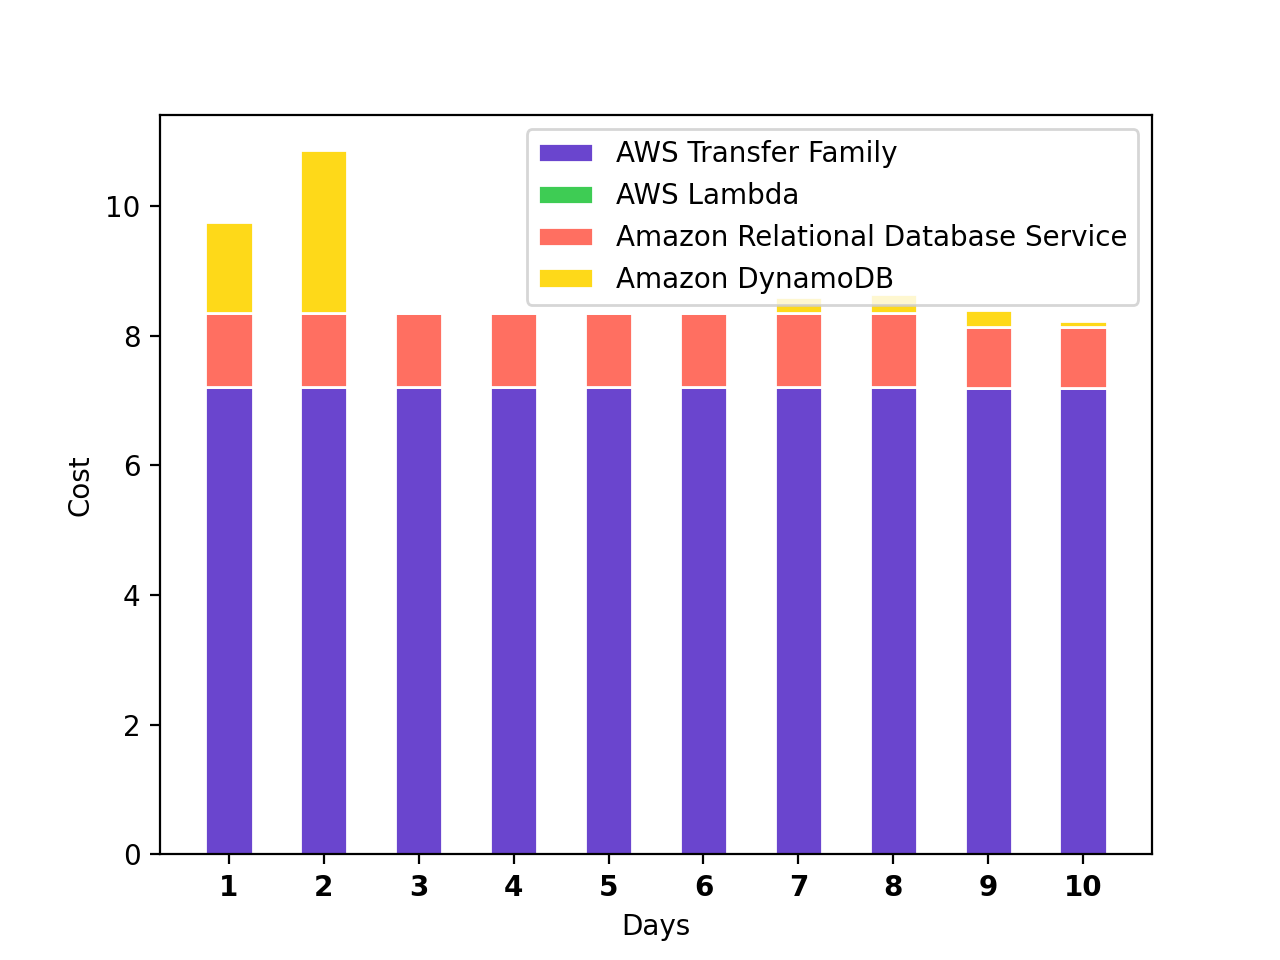
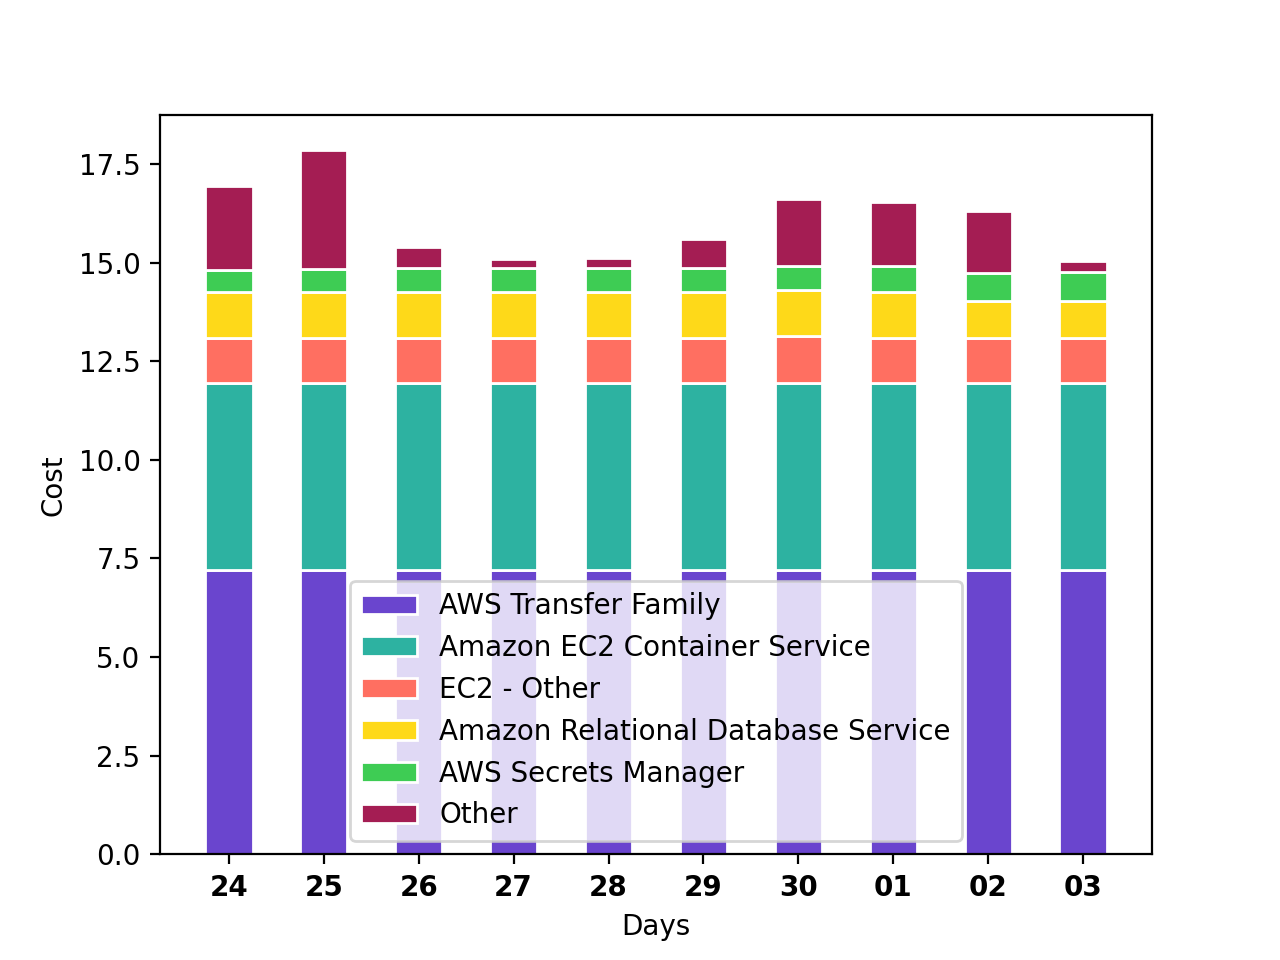
add calculation of dates

diff --git a/src/lambda.py b/src/lambda.py
@@ -3,16 +3,30 @@ from datetime import datetime, timedelta
 import json
 import stacked_bar
 
+TITLE = "Project: XYZ"
 DAYS = 10
+MIN_DAILY_COST = 10
+ONLY_NOTIFY_ON_INCREASE = False
+TARGET_CHANNEL = "#costoptimization"
 
 
 def get_daily_cost():
-    """ Returns the spend for each service
+    """ Returns the spend for each service together with the days
     """
-    client = boto3.client('ce')
     today = datetime.today().strftime('%Y-%m-%d')
     # first_day_of_month = datetime.today().replace(day=1).strftime('%Y-%m-%d')
     start_date = (datetime.now() - timedelta(days=DAYS)).strftime('%Y-%m-%d')
+
+    # Calculate dates
+    dates = []
+    for i in range(0, DAYS):
+        day = (datetime.today() - timedelta(days=i)).strftime("%d")
+        print(day)
+        dates.append(day)
+    dates.reverse()
+
+    # Get daily spend
+    client = boto3.client('ce')
     results = client.get_cost_and_usage(
         TimePeriod={
             'Start': start_date,
@@ -48,11 +62,11 @@ def get_daily_cost():
                 daily_cost[service].append(0)
 
     print(json.dumps(daily_cost, indent=4))
-    return daily_cost
+    return (daily_cost, dates)
 
 
 def lambda_handler(event, context):
-    daily_cost = get_daily_cost()
+    (daily_cost, dates) = get_daily_cost()
 
     # Find the biggest spenders
     total_cost = []
@@ -73,12 +87,9 @@ def lambda_handler(event, context):
     for service in the_rest:
         graph_data["Other"] = [x + y for x, y in zip(graph_data["Other"], daily_cost[service])]
     
-    print(graph_data)
+    print(graph_data, dates)
 
-    for service in graph_data.keys():
-        
-
-    stacked_bar.draw_bars(graph_data)
+    stacked_bar.draw_bars(graph_data, dates, f"{TITLE} (last {DAYS} days)")
 
     #print(json.dumps(results, indent=4))
 

diff --git a/src/stacked_bar.py b/src/stacked_bar.py
@@ -17,13 +17,12 @@ dark_green = "#2db2a1"
 COLORS = [purple, dark_green, pink, yellow, light_green, magenta, cyan]
 
 
-def draw_bars(all_bars):
+def draw_bars(all_bars, dates, title):
     first_key = list(all_bars.keys())[0]
     days = len(all_bars[first_key])
     # The position of the bars on the x-axis
     r = range(days)
     # Names of group and bar width (assuming the data starts at the first of the month)
-    names = [str(x + 1) for x in r]
     barWidth = 0.5
 
     # Draw bars
@@ -41,11 +40,12 @@ def draw_bars(all_bars):
         previous_bar = all_bars[label]
 
     # Custom X axis
-    plt.xticks(r, names, fontweight='bold')
+    plt.xticks(r, dates, fontweight='bold')
     plt.xlabel("Days")
     plt.ylabel("Cost")
 
     plt.legend()
+    plt.title(title)
 
     # y-axis in bold
     rc('font', weight='bold')
